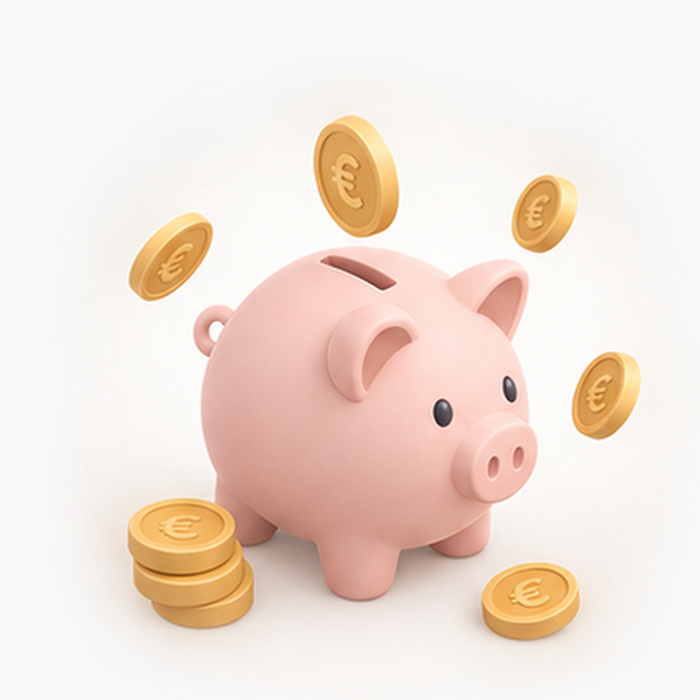
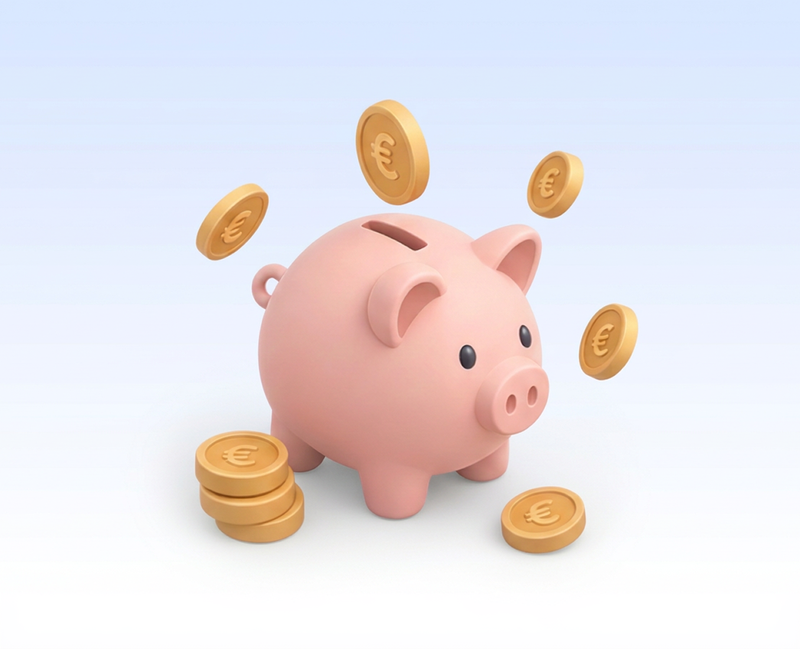
Нови илюстрации на модулите и маскот (Allix), object-cover карти

diff --git a/app/learn/page.tsx b/app/learn/page.tsx
@@ -22,7 +22,7 @@ function WorldImage({ world }: { world: World }) {
         src={world.image}
         alt={world.name}
         onError={() => setFailed(true)}
-        className="h-full w-full object-contain p-6 transition-transform duration-500 ease-out group-hover:scale-105"
+        className="h-full w-full object-cover transition-transform duration-500 ease-out group-hover:scale-105"
         draggable={false}
       />
     );
@@ -99,9 +99,7 @@ export default function LearnPage() {
                 {/* Илюстрация на света */}
                 <div
                   className="relative aspect-[4/3] shrink-0 overflow-hidden"
-                  style={{
-                    background: `radial-gradient(120% 120% at 50% 15%, ${world.color}33, ${world.color}14 55%, ${world.color}0d)`,
-                  }}
+                  style={{ backgroundColor: `${world.color}14` }}
                 >
                   <WorldImage world={world} />
 
